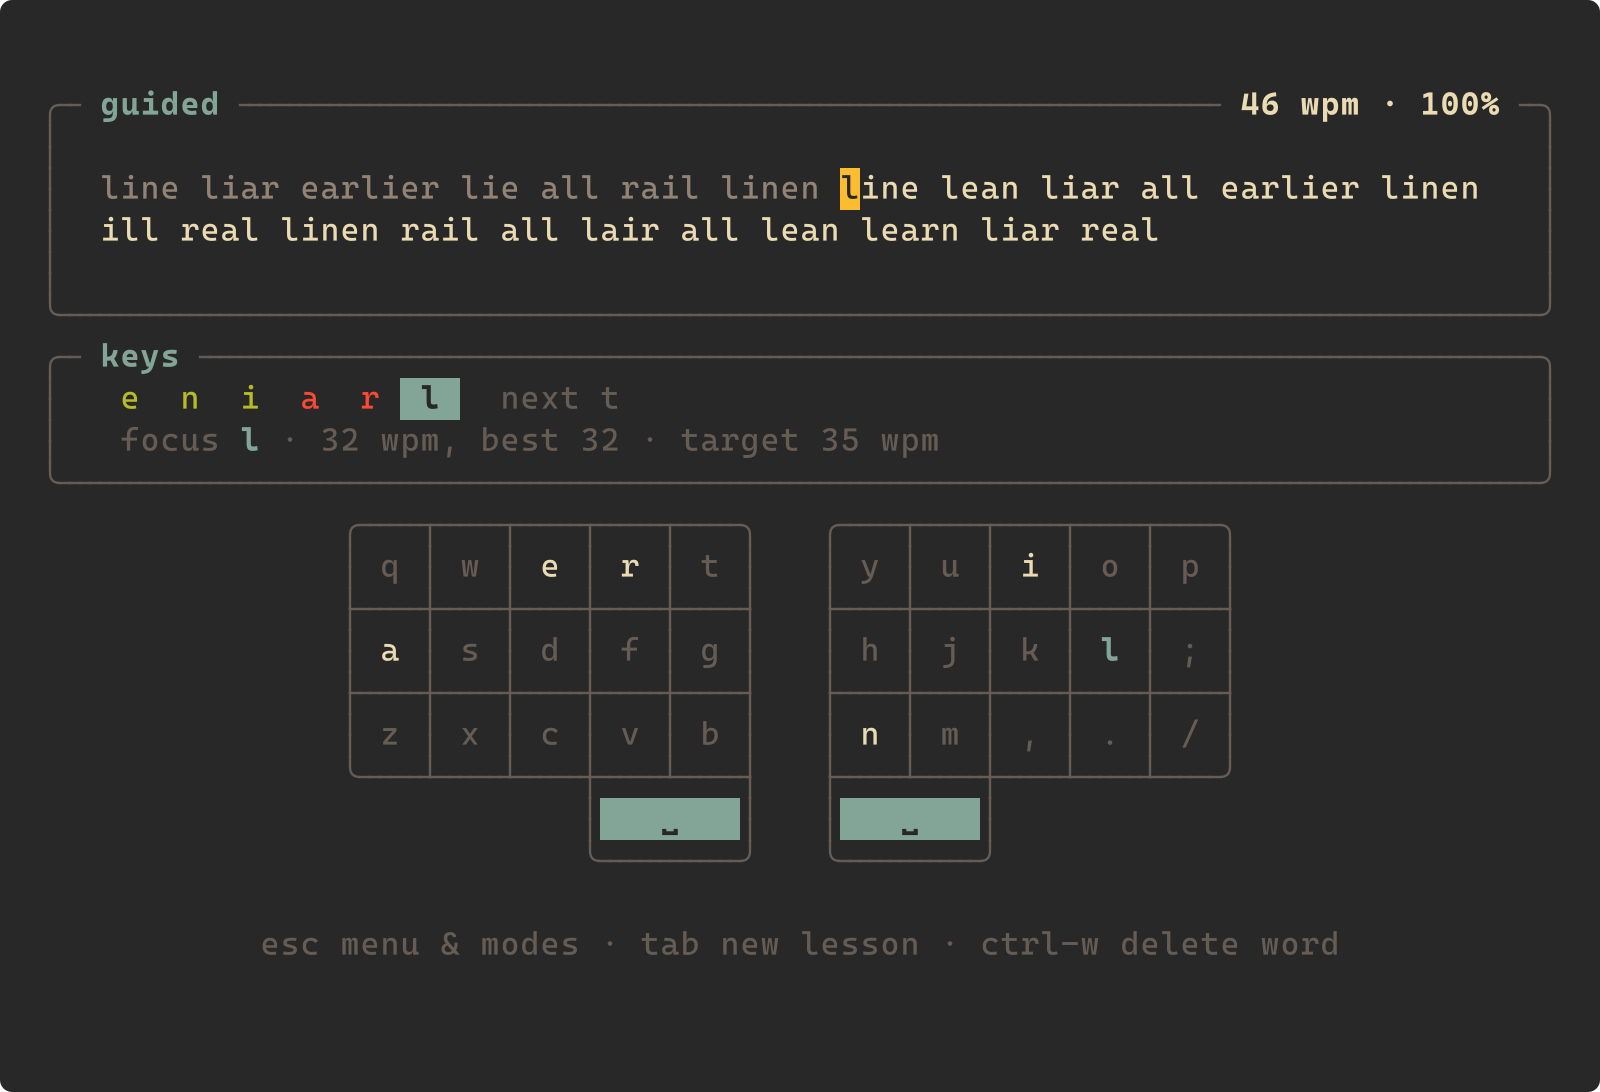
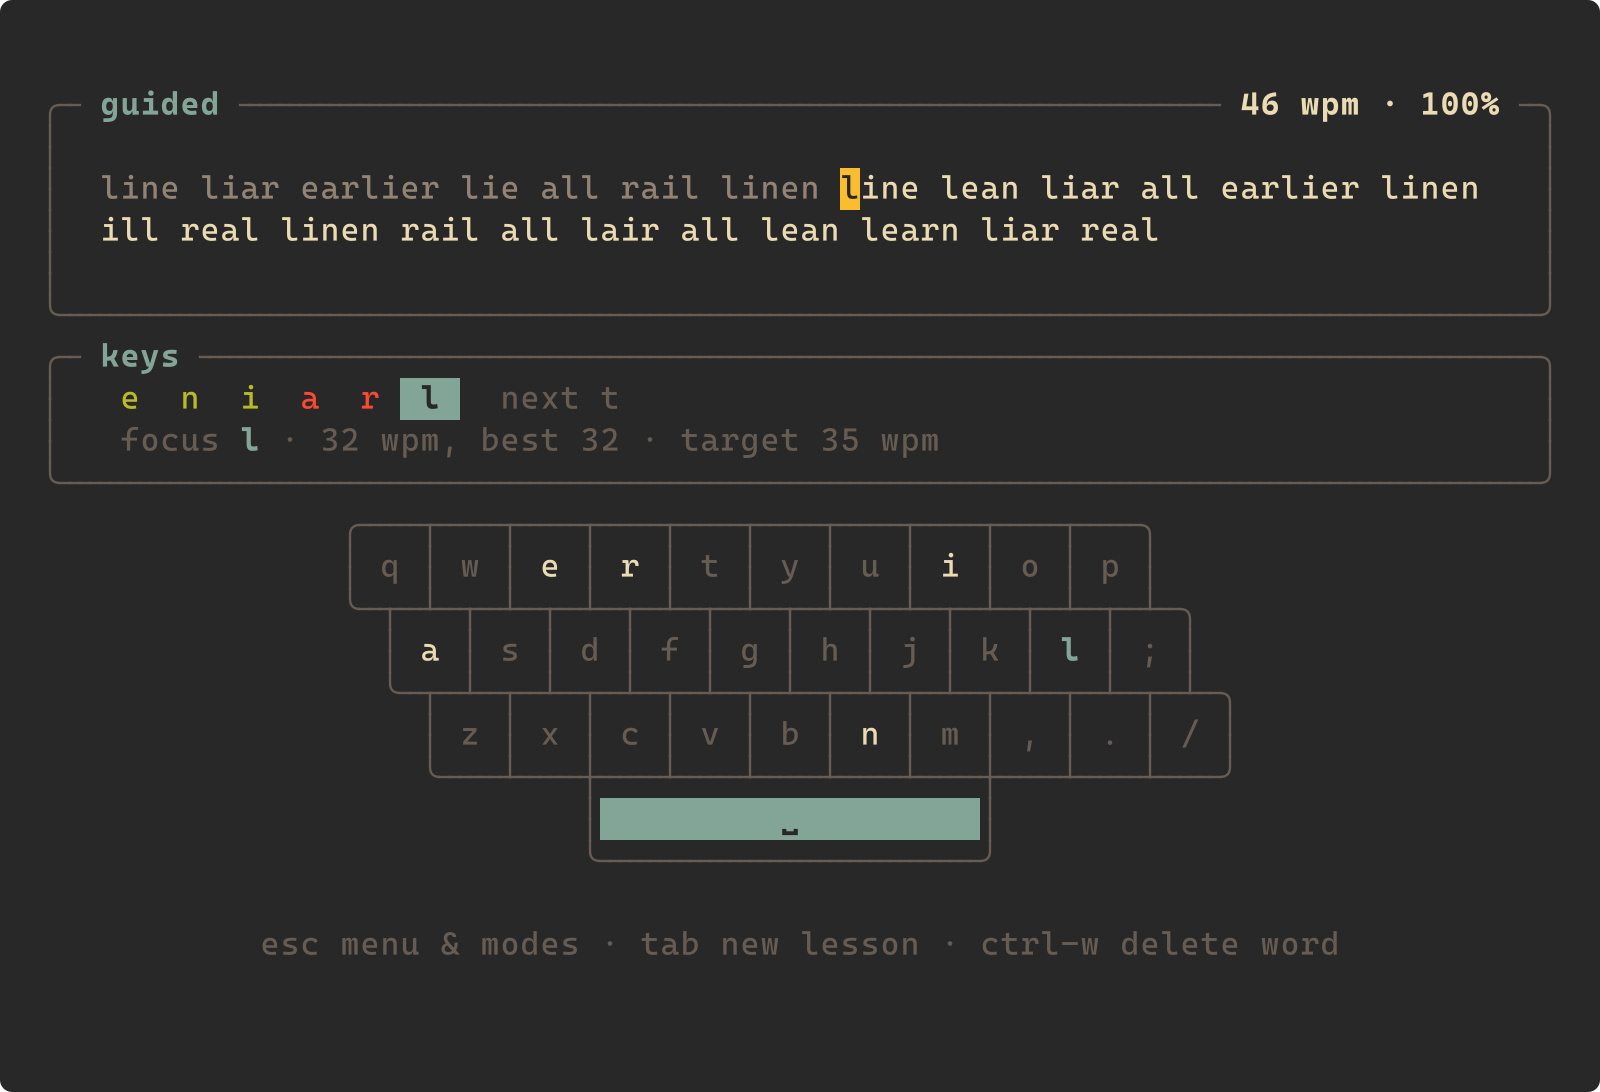
Default to the standard on-screen keyboard
The row-staggered layout is what most people type on, so make it the
default and list it first in settings. The README hero screenshot now
shows the default; the bigram screenshot keeps showing the split layout.

diff --git a/src/config.rs b/src/config.rs
@@ -22,21 +22,21 @@ pub struct Config {
 #[derive(Debug, Clone, Copy, Default, PartialEq, Eq, Serialize, Deserialize)]
 #[serde(rename_all = "lowercase")]
 pub enum KeyboardLayout {
-    /// Columnar split ergo halves (3x5 plus thumbs).
-    #[default]
-    Split,
     /// Row-staggered, like a laptop keyboard.
+    #[default]
     Standard,
+    /// Columnar split ergo halves (3x5 plus thumbs).
+    Split,
     Off,
 }
 
 impl KeyboardLayout {
-    pub const ALL: [KeyboardLayout; 3] = [Self::Split, Self::Standard, Self::Off];
+    pub const ALL: [KeyboardLayout; 3] = [Self::Standard, Self::Split, Self::Off];
 
     pub fn name(self) -> &'static str {
         match self {
-            Self::Split => "split",
             Self::Standard => "standard",
+            Self::Split => "split",
             Self::Off => "off",
         }
     }
@@ -208,12 +208,12 @@ mod tests {
         let path = dir.path().join("config.toml");
         std::fs::write(
             &path,
-            "theme = \"nord\"\nkeyboard = \"standard\"\n[drill]\nenabled = true\n",
+            "theme = \"nord\"\nkeyboard = \"split\"\n[drill]\nenabled = true\n",
         )
         .unwrap();
         let c = Config::load(&path).unwrap();
         assert_eq!(c.theme, "nord");
-        assert_eq!(c.keyboard, KeyboardLayout::Standard);
+        assert_eq!(c.keyboard, KeyboardLayout::Split);
         assert!(c.drill.enabled);
         assert_eq!(c.drill.repeat_count, 10);
         assert_eq!(c.lesson, LessonConfig::default());

diff --git a/src/ui/mod.rs b/src/ui/mod.rs
@@ -394,12 +394,12 @@ mod tests {
             keys < keyboard && keyboard + keyboard::HEIGHT <= footer,
             "{text}"
         );
-        // Split by default: boxed keys, halves apart.
+        // Standard by default: boxed keys, staggered rows.
         assert!(
-            text.contains("│ q │ w │ e │ r │ t │   │ y │ u │ i │ o │ p │"),
+            text.contains("│ q │ w │ e │ r │ t │ y │ u │ i │ o │ p │"),
             "{text}"
         );
-        assert!(text.contains("├───┼───┼"), "{text}");
+        assert!(text.contains("╰─┬─┴─┬─"), "staggered rows: {text}");
     }
 
     #[test]
@@ -439,10 +439,10 @@ mod tests {
         app.config.keyboard = crate::config::KeyboardLayout::Off;
         let text = screen_text(&render(&app, 90, 30));
         assert!(!text.contains("│ q │"), "{text}");
-        app.config.keyboard = crate::config::KeyboardLayout::Standard;
+        app.config.keyboard = crate::config::KeyboardLayout::Split;
         let text = screen_text(&render(&app, 90, 30));
-        assert!(text.contains("│ q │ w │ e │ r │ t │ y │"), "{text}");
-        assert!(text.contains("╰─┬─┴─┬─"), "staggered rows: {text}");
+        assert!(text.contains("│ q │ w │ e │ r │ t │   │ y │"), "halves apart: {text}");
+        assert!(text.contains("├───┼───┼"), "{text}");
     }
 
     #[test]

diff --git a/examples/screenshots.rs b/examples/screenshots.rs
@@ -19,7 +19,7 @@ use std::fmt::Write as _;
 use std::path::Path;
 use std::process::Command;
 use termtype::app::{App, Field, Input};
-use termtype::config::Config;
+use termtype::config::{Config, KeyboardLayout};
 use termtype::engine::rng::LessonRng;
 use termtype::theme::Theme;
 
@@ -62,11 +62,13 @@ fn main() -> Result<()> {
     typist.type_some(&mut app, &mut clock, LESSONS, 37);
     save("guided", &app, 80, 26)?;
 
-    // A bigram drill.
+    // A bigram drill, with the split keyboard.
     app.handle(Input::Esc, clock.now, clock.unix());
+    app.config.keyboard = KeyboardLayout::Split;
     app.handle(Input::Char('b'), clock.now, clock.unix());
     typist.type_some(&mut app, &mut clock, LESSONS, 13);
     save("bigrams", &app, 80, 26)?;
+    app.config.keyboard = KeyboardLayout::default();
 
     // Settings, asking before clearing progress.
     app.handle(Input::Esc, clock.now, clock.unix());

diff --git a/src/ui/settings.rs b/src/ui/settings.rs
@@ -21,7 +21,7 @@ fn help(field: Field) -> &'static str {
         Field::SpaceSkipsWords => "Space jumps to the next word, counting the rest as errors.",
         Field::Drill => "A mistake stops you; the word must then be retyped cleanly.",
         Field::DrillRepeatCount => "How many clean repetitions the drill asks for.",
-        Field::Keyboard => "On-screen keyboard below the lesson: split, standard or off.",
+        Field::Keyboard => "On-screen keyboard below the lesson: standard, split or off.",
         Field::Theme => "Colours. Add your own in ~/.config/termtype/themes/.",
         Field::ClearProgress => "Delete your lesson history and start over. Asks first.",
     }

diff --git a/README.md b/README.md
@@ -6,7 +6,7 @@ engine of [keybr.com](https://www.keybr.com) to Rust and runs it as a TUI.
 > termtype was vibe coded with [Claude](https://claude.com/claude-code): most
 > of the code was written by Claude under my direction.
 
-![A guided lesson: the text with the cursor, the unlocked keys and the on-screen split keyboard](docs/screenshots/guided.png)
+![A guided lesson: the text with the cursor, the unlocked keys and the on-screen keyboard](docs/screenshots/guided.png)
 
 - **Guided lessons.** You start with six letters. The next letter unlocks once
   every unlocked key reaches your target speed. Each lesson focuses on your
@@ -32,8 +32,8 @@ engine of [keybr.com](https://www.keybr.com) to Rust and runs it as a TUI.
   confirmation. The old history is moved to `results.jsonl.bak` until the
   next clear.
 - **On-screen keyboard.** Boxed keys below the lesson light up as you type
-  them (red for a wrong key). Split ergo layout by default; also `standard`
-  or `off`. It hides itself when the terminal is too small.
+  them (red for a wrong key). Standard row-staggered layout by default; also
+  `split` (columnar ergo halves) or `off`. It hides itself when the terminal is too small.
 - **Themes.** TOML files with hex colours. Built-ins: `terminal` (uses your
   terminal's palette), `gruvbox`, `catppuccin-mocha`, `nord`.
 
@@ -43,9 +43,9 @@ The menu after a lesson, with the mode panel:
 
 ![The menu: last lesson, the three modes with their target pairs, a progress sparkline and the keys](docs/screenshots/menu.png)
 
-A bigram drill, typing each slow pair 5 times:
+A bigram drill, typing each slow pair 5 times, with the `split` keyboard:
 
-![A bigram drill: rl, ea, ar, in and al typed five times each](docs/screenshots/bigrams.png)
+![A bigram drill: rl, ea, ar, in, al, ll and il typed five times each, above the split keyboard](docs/screenshots/bigrams.png)
 
 Key stats (`k`), with per-key progress and the slowest transitions:
 
@@ -96,7 +96,7 @@ All keys are optional, and unknown keys are reported as errors.
 
 ```toml
 theme = "terminal"
-keyboard = "split"     # split, standard or off
+keyboard = "standard"  # standard, split or off
 
 [lesson]
 target_wpm = 35        # a key is learned at this speed
